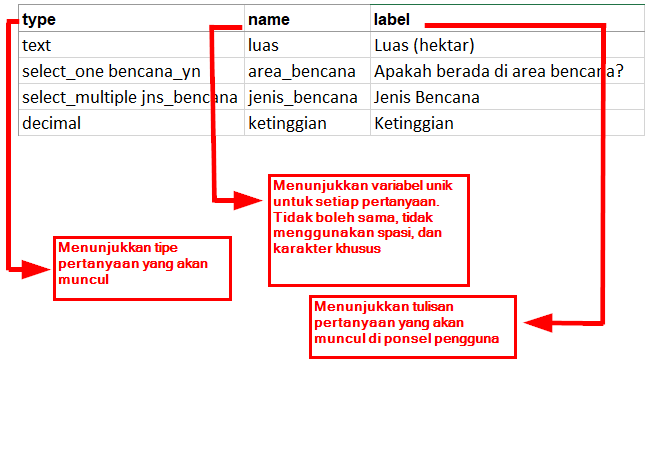
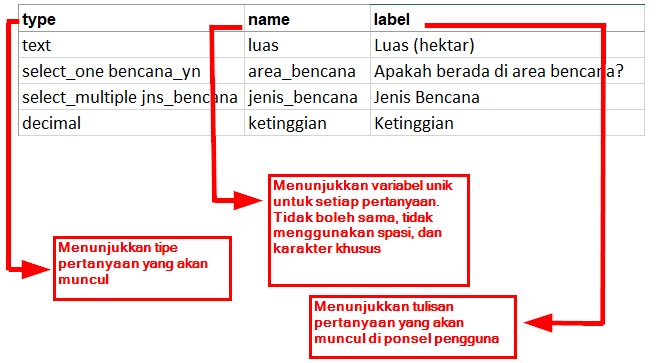
edit ODK & OMK Training + resize images

Changed region(s): [[0.0, 0.0, 1.0, 1.0]]

diff --git a/content/pages/06-OSM-Field-Survey-Manager-Guidelines/05-Membuat-Formulir-Survei-untuk-Aplikasi-ODK-Collect-&-OpenMapKit/05_Membuat_Formulir_Survei_untuk_Aplikasi_ODK_Collect_&_OpenMapKit.md b/content/pages/06-OSM-Field-Survey-Manager-Guidelines/05-Membuat-Formulir-Survei-untuk-Aplikasi-ODK-Collect-&-OpenMapKit/05_Membuat_Formulir_Survei_untuk_Aplikasi_ODK_Collect_&_OpenMapKit.md
@@ -27,7 +27,7 @@ _XLSForm_ merupakan sebuah formulir standar yang dibuat untuk membantu mempercep
 _XLSForm_ ini kemudian akan diubah menjadi bentuk _XForm_, sebuah format standar yang bersifat terbuka, dimana format tersebut memungkinkan Anda untuk membuat sebuah formulir dengan fungsi yang sangat kompleks, seperti pertanyaan bertingkat, ke dalam format yang sudah dikenali oleh perangkat pengumpulan data baik itu dalam bentuk situs di internet, maupun dalam perangkat telepon genggam.
 
 <p align="center">
-  <img width=50% src="../images/0502_contoh_format_XForm.png">
+  <img width=50% src="/pages/06-OSM-Field-Survey-Manager-Guidelines/05-Membuat-Formulir-Survei-untuk-Aplikasi-ODK-Collect-&-OpenMapKit/images/0502_contoh_format_XForm.png">
 </p>
 <p align="center"><i>Contoh format XForm</i></p>
 
@@ -48,7 +48,7 @@ Anda tentunya sudah memahami cara penggunaan aplikasi _ODK Collect_ yang dijelas
 
     Pada dokumen _spreadsheet_ yang kita buat, harus terdiri dari 3 lembar kerja utama, yaitu lembar kerja yang bernama _**survey, choices, settings.**_ Penamaan lembar kerja ini harus sesuai dan tidak boleh salah karena nanti akan gagal pada saat meng-_upload_ formulir survei Anda.
     <p align="center">
-      <img width=50% src="../images/0503_tiga_lembar_kerja_utama.png">
+      <img width=50% src="/pages/06-OSM-Field-Survey-Manager-Guidelines/05-Membuat-Formulir-Survei-untuk-Aplikasi-ODK-Collect-&-OpenMapKit/images/0503_tiga_lembar_kerja_utama.png">
     </p>
     <p align="center"><i>Tiga Lembar Kerja Utama di setiap XLSForm</i></p>
 
@@ -69,7 +69,7 @@ Anda tentunya sudah memahami cara penggunaan aplikasi _ODK Collect_ yang dijelas
 
         Kolom dengan nama **label** menunjukkan tulisan pertanyaan yang akan muncul pada perangkat ponsel pengguna. Tidak ada format baku untuk kolom ini, Anda bebas menggunakan huruf, angka, dan karakter spesial pada kolom ini.
         <p align="center">
-          <img width=50% src="../images/0504_ct_kolom_survey.png">
+          <img width=50% src="/pages/06-OSM-Field-Survey-Manager-Guidelines/05-Membuat-Formulir-Survei-untuk-Aplikasi-ODK-Collect-&-OpenMapKit/images/0504_ct_kolom_survey.png">
         </p>
         <p align="center"><i>Contoh kolom untuk lembar kerja survey</i></p>
 
@@ -81,7 +81,7 @@ Anda tentunya sudah memahami cara penggunaan aplikasi _ODK Collect_ yang dijelas
 
         Kolom dengan nama **_label_** memiliki aturan yang sama dengan kolom **label** pada lembar kerja **survey**. Pada kolom ini berisikan teks jawaban yang akan muncul pada ponsel pengguna. Anda bisa bebas menggunakan spasi, karakter khusus maupun huruf pada bagian kolom ini.
         <p align="center">
-          <img width=50% src="../images/0505_penamaan_kolom_choices.png">
+          <img width=50% src="/pages/06-OSM-Field-Survey-Manager-Guidelines/05-Membuat-Formulir-Survei-untuk-Aplikasi-ODK-Collect-&-OpenMapKit/images/0505_penamaan_kolom_choices.png">
         </p>
         <p align="center"><i>Contoh penamaan kolom pada lembar kerja **choices**</i></p>
 
@@ -92,7 +92,7 @@ Anda tentunya sudah memahami cara penggunaan aplikasi _ODK Collect_ yang dijelas
         Sementara untuk kolom **form_id**, Anda bisa memberikan id formulir Anda. Syarat penamaan pada kolom ini adalah Anda tidak boleh memiliki id yang sama seperti formulir lainnya, tidak menggunakan spasi, dan tidak menggunakan karakter spesial.
         Untuk kolom **version**, Anda bisa memberikan versi formulir Anda. Penambahan kolom **version** ini tidak wajib. Apabila Anda sering menambah/mengubah formulir survei Anda, dengan memberikan kolom **version** ini, akan memudahkan Anda dalam mengunggah formulirnya pada server.
         <p align="center">
-          <img width=50% src="../images/0506_pengaturan_settings.png">
+          <img width=50% src="/pages/06-OSM-Field-Survey-Manager-Guidelines/05-Membuat-Formulir-Survei-untuk-Aplikasi-ODK-Collect-&-OpenMapKit/images/0506_pengaturan_settings.png">
         </p>
         <p align="center"><i>Contoh penamaan kolom pada lembar kerja choices</i></p>
 
@@ -100,7 +100,7 @@ Anda tentunya sudah memahami cara penggunaan aplikasi _ODK Collect_ yang dijelas
 
         Salah satu syarat yang paling utama adalah ketika kita membuat formulir survei, semua harus dimulai pada _field_/kuadran _**A-1.**_
         <p align="center">
-          <img width=50% src="../images/0507_posisi_awal_membuat_formulir_survei.png">
+          <img width=50% src="/pages/06-OSM-Field-Survey-Manager-Guidelines/05-Membuat-Formulir-Survei-untuk-Aplikasi-ODK-Collect-&-OpenMapKit/images/0507_posisi_awal_membuat_formulir_survei.png">
         </p>
         <p align="center"><i>Posisi awal membuat formulir survei</i></p>
 
@@ -116,7 +116,7 @@ Anda tentunya sudah memahami cara penggunaan aplikasi _ODK Collect_ yang dijelas
 
         Tipe pertanyaan jenis ini akan menghasilkan format pertanyaan dengan jawaban bebas. Pengguna bisa dengan bebas memasukkan angka, huruf, dan karakter spesial apabila kita menggunakan tipe pertanyaan ini.
         <p align="center">
-          <img width=50% src="../images/0508_contoh_tipe_pertanyaan_text.png">
+          <img width=50% src="/pages/06-OSM-Field-Survey-Manager-Guidelines/05-Membuat-Formulir-Survei-untuk-Aplikasi-ODK-Collect-&-OpenMapKit/images/0508_contoh_tipe_pertanyaan_text.png">
         </p>
         <p align="center"><i>Contoh tipe pertanyaan text</i></p>
 
@@ -124,7 +124,7 @@ Anda tentunya sudah memahami cara penggunaan aplikasi _ODK Collect_ yang dijelas
 
         Tipe pertanyaan jenis ini akan menghasilkan format pertanyaan dengan jawaban berupa angka bilangan bulat (khusus untuk tipe **integer**) atau angka bilangan desimal (khusus untuk tipe **decimal**). Pengguna hanya bisa memasukkan angka saja dengan tipe pertanyaan ini, gabungan dari angka dan huruf tidak akan bisa dimasukkan apabila kita menggunakan tipe pertanyaan ini.
         <p align="center">
-          <img width=50% src="../images/0509_contoh_tipe_pertanyaan_integer.png">
+          <img width=50% src="/pages/06-OSM-Field-Survey-Manager-Guidelines/05-Membuat-Formulir-Survei-untuk-Aplikasi-ODK-Collect-&-OpenMapKit/images/0509_contoh_tipe_pertanyaan_integer.png">
         </p>
         <p align="center"><i>Contoh tipe pertanyaan integer</i></p>
 
@@ -132,7 +132,7 @@ Anda tentunya sudah memahami cara penggunaan aplikasi _ODK Collect_ yang dijelas
 
         Tipe pertanyaan jenis ini akan memberikan pengguna sebuah pilihan jawaban dimana pengguna hanya boleh memilih satu jawaban saja. Dalam membuat tipe pertanyaan ini, Anda harus menggunakan format seperti **select_one [opsi]**. Dimana **[opsi]** merupakan variabel grup yang akan dimasukkan ke dalam lembar kerja **choices** di dalam kolom **list_name**.
         <p align="center">
-          <img width=50% src="../images/0510_contoh_select_one.png">
+          <img width=50% src="/pages/06-OSM-Field-Survey-Manager-Guidelines/05-Membuat-Formulir-Survei-untuk-Aplikasi-ODK-Collect-&-OpenMapKit/images/0510_contoh_select_one.png">
         </p>
         <p align="center"><i>Contoh tipe pertanyaan select_one [opsi]. Perhatikan bahwa pada  list_name sesuai dengan apa yang ada pada  [opsi] di lembar kerja survey.</i></p>
 
@@ -140,7 +140,7 @@ Anda tentunya sudah memahami cara penggunaan aplikasi _ODK Collect_ yang dijelas
 
         Tipe pertanyaan jenis ini sama seperti tipe pertanyaan sebelumnya. Jawaban yang disajikan ke pengguna merupakan beberapa pilihan dan pengguna boleh memilih lebih dari satu jawaban. Aturan dalam pembuatan tipe pertanyaan ini juga sama seperti **select_one**. Anda harus menggunakan format seperti **select_multiple [opsi],** dimana **[opsi]** merupakan variabel grup yang akan dimasukkan ke dalam lembar kerja **choices** dalam kolom **list_name**.
         <p align="center">
-          <img width=50% src="../images/0511_contoh_select_multiple.png">
+          <img width=50% src="/pages/06-OSM-Field-Survey-Manager-Guidelines/05-Membuat-Formulir-Survei-untuk-Aplikasi-ODK-Collect-&-OpenMapKit/images/0511_contoh_select_multiple.png">
         </p>
         <p align="center"><i>Contoh tipe pertanyaan select_multiple [opsi]. Opsi pada gambar diatas adalah floodcause yang juga muncul didalam lembar kerja choices</i></p>
         
@@ -148,7 +148,7 @@ Anda tentunya sudah memahami cara penggunaan aplikasi _ODK Collect_ yang dijelas
 
         Tipe pertanyaan ini akan meminta pengguna untuk merekam koordinat posisi mereka dan akan menghasilkan data berbentuk koordinat lintang dan bujur.
         <p align="center">
-          <img width=50% src="../images/0512_contoh_geopoint.png">
+          <img width=50% src="/pages/06-OSM-Field-Survey-Manager-Guidelines/05-Membuat-Formulir-Survei-untuk-Aplikasi-ODK-Collect-&-OpenMapKit/images/0512_contoh_geopoint.png">
         </p>
         <p align="center"><i>Contoh penggunaan tipe pertanyaan geopoint</i></p>
 
@@ -156,14 +156,14 @@ Anda tentunya sudah memahami cara penggunaan aplikasi _ODK Collect_ yang dijelas
 
         Tipe ini digunakan untuk menambahkan halaman catatan atau pemberitahuan. Pengguna akan disajikan satu halaman yang berisikan tampilan tulisan saja tanpa harus mengisi informasi apapun. Untuk format penulisan masih mengikuti kaidah penulisan pada kolom **label**, dimana kita bebas memberikan format tulisan apapun.
     <p align="center">
-      <img width=50% src="../images/0513_contoh_note.png">
+      <img width=50% src="/pages/06-OSM-Field-Survey-Manager-Guidelines/05-Membuat-Formulir-Survei-untuk-Aplikasi-ODK-Collect-&-OpenMapKit/images/0513_contoh_note.png">
     </p>
     <p align="center"><i>Contoh penggunaan tipe note</i></p>
     
     *   Tipe **image, video** atau **audio**
         Tipe pertanyaan ini akan meminta pengguna untuk mengambil gambar, suara atau video. 
     <p align="center">
-      <img width=50% src="../images/0514_contoh_image.png">
+      <img width=50% src="/pages/06-OSM-Field-Survey-Manager-Guidelines/05-Membuat-Formulir-Survei-untuk-Aplikasi-ODK-Collect-&-OpenMapKit/images/0514_contoh_image.png">
     </p>
     <p align="center"><i>Contoh penggunaan tipe image</i></p>
     
@@ -176,7 +176,7 @@ Anda tentunya sudah memahami cara penggunaan aplikasi _ODK Collect_ yang dijelas
 
         Hint merupakan salah satu fitur tambahan yang bisa kita tambahkan pada formulir survei digital kita. Dengan menggunakan fitur ini, kita bisa memberikan informasi tambahan atau petunjuk tentang bagaimana cara mengisi sebuah pertanyaan yang kita buat. Untuk membuat fitur ini, kita harus menambahkan kolom baru pada lembar kerja **survey** yang bernama **hint**. Dengan menambahkan kolom ini, setiap tipe pertanyaan yang kita buat, bisa kita tambahkan dengan petunjuk informasi pengisian dengan mengisi pada kolom **hint** ini.
         <p align="center">
-          <img width=50% src="../images/0515_contoh_kolom_hint.png">
+          <img width=50% src="/pages/06-OSM-Field-Survey-Manager-Guidelines/05-Membuat-Formulir-Survei-untuk-Aplikasi-ODK-Collect-&-OpenMapKit/images/0515_contoh_kolom_hint.png">
         </p>
         <p align="center"><i>Contoh penggunaan kolom hint</i></p>
 
@@ -184,7 +184,7 @@ Anda tentunya sudah memahami cara penggunaan aplikasi _ODK Collect_ yang dijelas
 
         Fitur ini dibutuhkan apabila pada formulir survei Anda, terdapat pertanyaan yang wajib untuk dijawab. Dengan menggunakan fitur ini, pengguna tidak akan bisa mengisi pertanyaan selanjutnya apabila mereka belum menjawab pertanyaan tersebut. Tipe pertanyaan yang menggunakan fitur ini juga akan memiliki tanda bintang berwarna merah ( * ) apabila dilihat pada ponsel Anda. Untuk menggunakan fitur ini, Anda cukup membuat sebuah kolom baru yang bernama **required** yang terletak pada lembar kerja **survey**. Setiap tipe pertanyaan yang Anda akan atur menjadi wajib, harus anda tambahkan nilai **yes** pada kolom required ini.
         <p align="center">
-          <img width=50% src="../images/0516_contoh_penggunaan_fitur_required.png">
+          <img width=50% src="/pages/06-OSM-Field-Survey-Manager-Guidelines/05-Membuat-Formulir-Survei-untuk-Aplikasi-ODK-Collect-&-OpenMapKit/images/0516_contoh_penggunaan_fitur_required.png">
         </p>
         <p align="center"><i>Contoh penggunaan fitur required. Setiap pertanyaan yang mengaktifkan fitur ini tidak dapat dilewati oleh pengguna apabila belum diisi</i></p>
 
@@ -195,7 +195,7 @@ Anda tentunya sudah memahami cara penggunaan aplikasi _ODK Collect_ yang dijelas
         1.  Anda harus menyelipkan format **begin_group** pada bagian awal pertanyaan yang ingin Anda tampilkan ke dalam satu halaman dan **end_group** pada bagian akhir pertanyaan yang ingin Anda tampilkan dalam satu halaman. Format **begin_group** dan **end_group** ini harus berada di dalam kolom **type**. Dengan menyelipkan format ini, sistem akan membaca bahwa semua pertanyaan yang berada setelah format **begin_group** dan sebelum format **end_group** merupakan satu grup pertanyaan.
         2. Setelah anda membuat grup pertanyaan tersebut, Anda harus menambahkan kolom **appearance** dan disikan dengan format **field-list**. Dengan menambahkan kolom tersebut, Anda memberitahukan kepada sistem bahwa semua grup pertanyaan yang telah Anda buat, akan dimasukkan ke dalam daftar satu halaman saja.
         <p align="center">
-          <img width=50% src="../images/0517_contoh_field-list.png">
+          <img width=50% src="/pages/06-OSM-Field-Survey-Manager-Guidelines/05-Membuat-Formulir-Survei-untuk-Aplikasi-ODK-Collect-&-OpenMapKit/images/0517_contoh_field-list.png">
         </p>
         <p align="center"><i>Contoh penggunaan fitur field-list pada beberapa kelompok pertanyaan</i></p>
 
@@ -206,7 +206,7 @@ Anda tentunya sudah memahami cara penggunaan aplikasi _ODK Collect_ yang dijelas
         
             Sebelum menggunakan fitur **relevant**, Anda terlebih dahulu harus membuat pertanyaan Awal yang akan Anda masukkan kedalam format fitur **relevant**. Misalnya dengan menggunakan tipe pertanyaan **select_one**:
         <p align="center">
-          <img width=50% src="../images/0518_contoh_lembar_kerja_survey.png">
+          <img width=50% src="/pages/06-OSM-Field-Survey-Manager-Guidelines/05-Membuat-Formulir-Survei-untuk-Aplikasi-ODK-Collect-&-OpenMapKit/images/0518_contoh_lembar_kerja_survey.png">
         </p>
         <p align="center"><i>Contoh pertanyaan pada lembar kerja survey</i></p>
 
@@ -214,7 +214,7 @@ Anda tentunya sudah memahami cara penggunaan aplikasi _ODK Collect_ yang dijelas
         
             Setelah Anda membuat pertanyaan awal, langkah selanjutnya adalah Anda harus membuat pilihan jawaban pada lembar kerja **choices**.
         <p align="center">
-          <img width=50% src="../images/0519_contoh_pilihan_jawaban_choices.png">
+          <img width=50% src="/pages/06-OSM-Field-Survey-Manager-Guidelines/05-Membuat-Formulir-Survei-untuk-Aplikasi-ODK-Collect-&-OpenMapKit/images/0519_contoh_pilihan_jawaban_choices.png">
         </p>
         <p align="center"><i>Contoh pilihan jawaban pada lembar kerja choices</i></p>
 
@@ -229,7 +229,7 @@ Anda tentunya sudah memahami cara penggunaan aplikasi _ODK Collect_ yang dijelas
 
             Untuk **field_name** mengacu kepada variabel yang Anda tentukan sebelumnya di kolom **name** pada lembar kerja **survey.** Sementara itu untuk **choice** mengacu kepada variabel pilihan jawaban yang tersedia pada lembar kerja **choices**.
             <p align="center">
-              <img width=50% src="../images/0520_contoh_pembuatan_fitur_relevant.png">
+              <img width=50% src="/pages/06-OSM-Field-Survey-Manager-Guidelines/05-Membuat-Formulir-Survei-untuk-Aplikasi-ODK-Collect-&-OpenMapKit/images/0520_contoh_pembuatan_fitur_relevant.png">
             </p>
             <p align="center"><i>Contoh pembuatan fitur relevant</i></p>
 
@@ -244,7 +244,7 @@ Secara umum, pembuatan formulir survei untuk _OpenMapKit_ mengikuti aturan seper
 
     Secara umum, kebutuhan lembar kerja untuk membuat _OpenMapKit_ tidak jauh berbeda dengan format _ODK Collect_. Lembar kerja yang dibutuhkan oleh _ODK Collect_ adalah **survey, choices,** & **settings**. Namun untuk _OpenMapKit_, kita harus **menambahkan lembar kerja baru bernama** **osm**. 
     <p align="center">
-      <img width=50% src="../images/0521_lembar_kerja_utama_untuk_openmapkit.png">
+      <img width=50% src="/pages/06-OSM-Field-Survey-Manager-Guidelines/05-Membuat-Formulir-Survei-untuk-Aplikasi-ODK-Collect-&-OpenMapKit/images/0521_lembar_kerja_utama_untuk_openmapkit.png">
     </p>
     <p align="center"><i>Lembar kerja utama untuk OpenMapKit</i></p>
 
@@ -255,7 +255,7 @@ Secara umum, pembuatan formulir survei untuk _OpenMapKit_ mengikuti aturan seper
     Agar pertanyaan yang kita buat berhasil dimunculkan ke dalam _OpenMapKit_, kita harus memasukkan tipe pertanyaan khusus, yaitu **osm**. Dengan memasukkan pertanyaan ini ke dalam lembar kerja **survey**, sistem akan memunculkan semua pertanyaan di _OpenMapKit_ yang telah kita buat pada lembar kerja **osm**.
     Tipe pertanyaan ini harus diikuti dengan variabel yang nantinya akan terhubung dengan variabel yang ada pada kolom **list name** di lembar kerja **osm.**
     <p align="center">
-      <img width=50% src="../images/0522_tipe_pertanyaan_osm.png">
+      <img width=50% src="/pages/06-OSM-Field-Survey-Manager-Guidelines/05-Membuat-Formulir-Survei-untuk-Aplikasi-ODK-Collect-&-OpenMapKit/images/0522_tipe_pertanyaan_osm.png">
     </p>
     <p align="center"><i>Tipe pertanyaan osm dengan variabel yang sama di lembar kerja osm</i></p>
 
@@ -263,7 +263,7 @@ Secara umum, pembuatan formulir survei untuk _OpenMapKit_ mengikuti aturan seper
 
     Pada lembar kerja **osm**, kita harus memasukkan tiga kolom utama, yaitu kolom **list name**, **name**, dan **label**. Kolom **list name** berisi tentang pertanyaan dan pilihan jawaban. Kolom **name** berisi tentang variabel unik yang mengikuti standar _key_ dan _value_ dari _OpenStreetMap._ Untuk daftar _key_ dan _value,_ Anda bisa melihat pada modul **Model Data _OpenStreetMap_** atau bisa langsung menuju situs [https://wiki.openstreetmap.org/wiki/Map_Features](https://wiki.openstreetmap.org/wiki/Map_Features) dan [https://wiki.openstreetmap.org/wiki/Id:Indonesian_Tagging_Guidelines](https://wiki.openstreetmap.org/wiki/Id:Indonesian_Tagging_Guidelines).
     <p align="center">
-      <img width=50% src="../images/0523_aturan_key_dan_value_pada_osm.png">
+      <img width=50% src="/pages/06-OSM-Field-Survey-Manager-Guidelines/05-Membuat-Formulir-Survei-untuk-Aplikasi-ODK-Collect-&-OpenMapKit/images/0523_aturan_key_dan_value_pada_osm.png">
     </p>
     <p align="center"><i>Kolom **name** mengikuti aturan key dan value pada OSM</i></p>
 
@@ -290,26 +290,26 @@ Pertama-tama, kita harus membuat formulir survei untuk _ODK Collect_. Seperti sy
 
 Setelah itu, pada lembar kerja **survey** kita harus memberikan kolom utama kita, yaitu kolom **type, name** & **label**. Jenis tipe pertanyaan yang harus kita buat untuk formulir survei ini adalah **text, select_one** & **geopoint**. 
     <p align="center">
-      <img width=50% src="../images/0524_tipe_pertanyaan_untuk_lembar_kerja_survey.png">
+      <img width=50% src="/pages/06-OSM-Field-Survey-Manager-Guidelines/05-Membuat-Formulir-Survei-untuk-Aplikasi-ODK-Collect-&-OpenMapKit/images/0524_tipe_pertanyaan_untuk_lembar_kerja_survey.png">
     </p>
     <p align="center"><i>Tipe pertanyaan untuk lembar kerja **survey**</i></p>
 
 
 Pada lembar kerja **choices **kita memasukkan pilihan jawaban untuk tipe pertanyaan **select_one **yang sudah kita buat pada lembar kerja **survey**. Disini kita harus membuat tiga kolom utama yaitu **list_name, name, **& **label**.
     <p align="center">
-      <img width=50% src="../images/0525_pilihan_jawaban_lembar_kerja_choices.png">
+      <img width=50% src="/pages/06-OSM-Field-Survey-Manager-Guidelines/05-Membuat-Formulir-Survei-untuk-Aplikasi-ODK-Collect-&-OpenMapKit/images/0525_pilihan_jawaban_lembar_kerja_choices.png">
     </p>
     <p align="center"><i>Pilihan jawaban yang dimasukkan pada lembar kerja choices_</i></p>
 
 Karena kita ingin menggunakan _OpenMapKit_ untuk pengumpulan data lapangan kita, kita harus menambahkan tipe pertanyaan yang nantinya akan mengarahkan kita ke aplikasi _OpenMapKit_, tipe pertanyaan yang harus kita masukkan adalah **osm**. Pada lembar kerja **osm **kita memasukkan semua pertanyaan yang berkaitan dengan _OpenMapKit_. Pada variabel **name** kita harus mengacu kepada _key_ dan _value_ di wikipedia _OpenStreetMap_.
     <p align="center">
-      <img width=50% src="../images/0526_isi_lembar_kerja_survey_dan_osm.png">
+      <img width=50% src="/pages/06-OSM-Field-Survey-Manager-Guidelines/05-Membuat-Formulir-Survei-untuk-Aplikasi-ODK-Collect-&-OpenMapKit/images/0526_isi_lembar_kerja_survey_dan_osm.png">
     </p>
     <p align="center"><i>Isi lembar kerja survey dan osm</i></p>
 
 Terakhir, pada lembar kerja **settings** kita memasukkan id formulir kita dan judul formulir kita. Pada lembar kerja ini, hanya dibutuhkan dua kolom utama, yaitu **form_id** dan **title.**
     <p align="center">
-      <img width=50% src="../images/0527_contoh_pengaturan_pada_lembar_kerja_settings.png">
+      <img width=50% src="/pages/06-OSM-Field-Survey-Manager-Guidelines/05-Membuat-Formulir-Survei-untuk-Aplikasi-ODK-Collect-&-OpenMapKit/images/0527_contoh_pengaturan_pada_lembar_kerja_settings.png">
     </p>
     <p align="center"><i>Contoh pengaturan pada lembar kerja settings</i></p>
 
